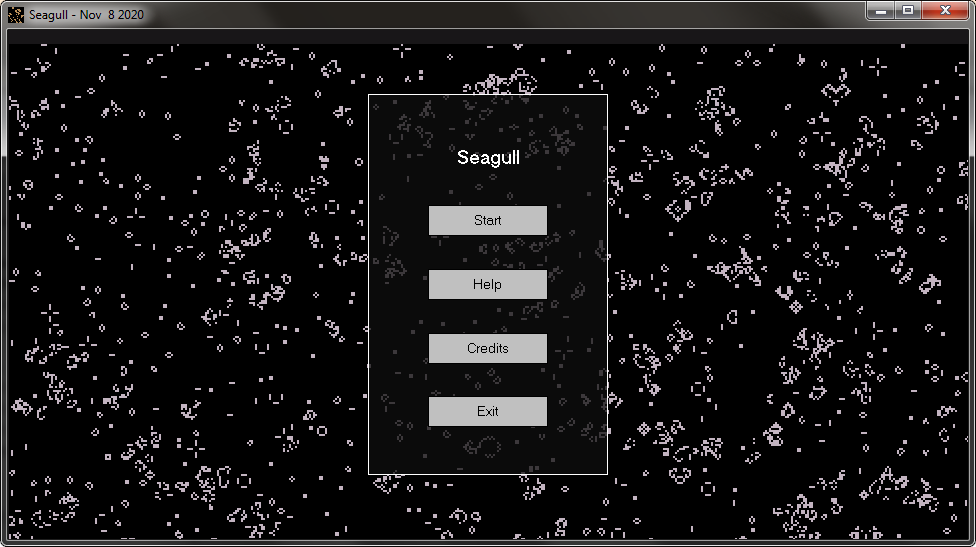
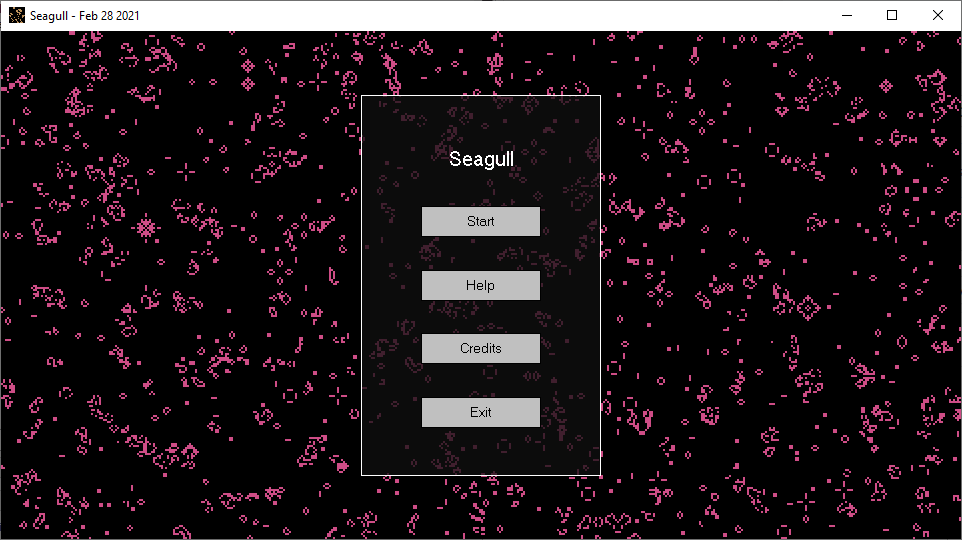
Added ReadMe, updated screenshots

diff --git a/ReadMe.md b/ReadMe.md
@@ -1,0 +1,37 @@
+# Seagull
+
+
+
+Conway's Game of Life implemented with [ZDK](https://github.com/ZaidaTek/ZDK)
+
+
+
+![Seagull](https://raw.githubusercontent.com/ariebesehl/Seagull/main/__screenshot-1.png)
+
+
+
+## Description
+
+Seagull is a native Windows application implementing Conway's Game of Life using the ZDK-library.
+
+It has only basic functions and renders with OpenGL.
+
+It is a more complete application designed to detail ZDK's functions, as opposed to the rather minimal deployments in the [Hello World](https://github.com/ariebesehl/HelloWorld) applications.
+
+![](https://raw.githubusercontent.com/ariebesehl/Seagull/main/__screenshot-2.png)
+
+
+## Installation
+
+1) Download fully compiled binaries and necessary runtimes [here](https://github.com/ariebesehl/Seagull/raw/main/__latest.zip)
+
+2) Extract to folder of your choice
+
+3) Execute `Seagull.exe`
+
+
+## License
+
+Copyright (C) 2020-2021 Andreas Riebesehl
+
+This work is licensed under: This work is presently unlicensed.
